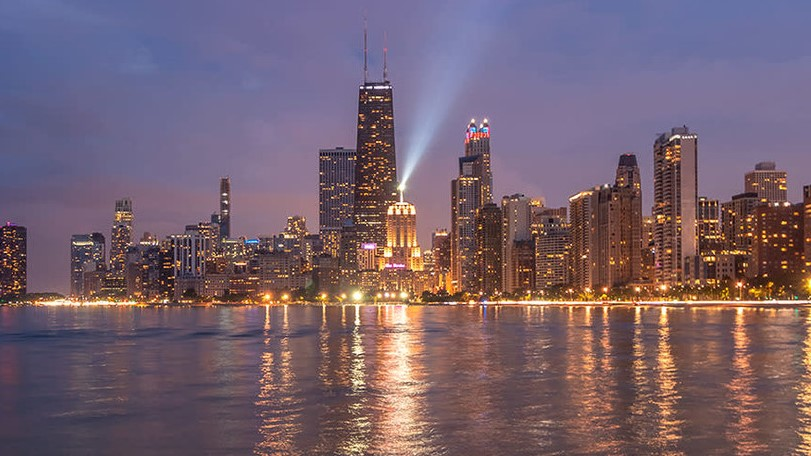
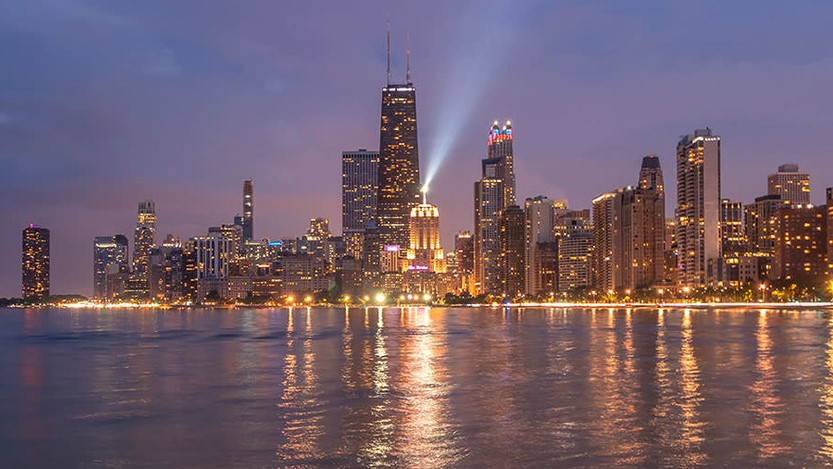
adjustments

diff --git a/script.js b/script.js
@@ -62,3 +62,20 @@ function initMap(){
 }
 
 //Slideshow
+var slides = 0;
+var images = []
+
+images[0] = 'images/chi.jpg';
+images[1] = 'images/teo.jpg';
+images[2] = 'images/wall.jpg';
+
+function slideshow(){
+	document.getElementById('slide').src = images[slides];
+	if (slides < images.length - 1){
+		slides++;
+    }else {
+		slides = 0;
+    }
+	setTimeout("slideshow()", 3000);
+}
+window.onload = slideshow;

diff --git a/map.html b/map.html
@@ -19,11 +19,11 @@
 		</div>
 	</header>
 	
-	<img src="chi.jpg" alt="Cool locations" class="slide"/>
-	
 	<div id="map"></div>
 	<script async defer src="https://maps.googleapis.com/maps/api/js?key=AIzaSyC2LqIhATMCMCtIDuzGa19ueaEGCwQs5Fg&callback=initMap">
 	</script>
+	
+	<img src="chi.jpg" alt="Cool locations" class="slide" id="slide"/>
 	
 </body>
 </html>

diff --git a/style.css b/style.css
@@ -101,7 +101,7 @@ h2{
 }
 
 .slide{
-  width: 100%;
+  width: 90%;
 }
 
 /* NAVIGATION */
